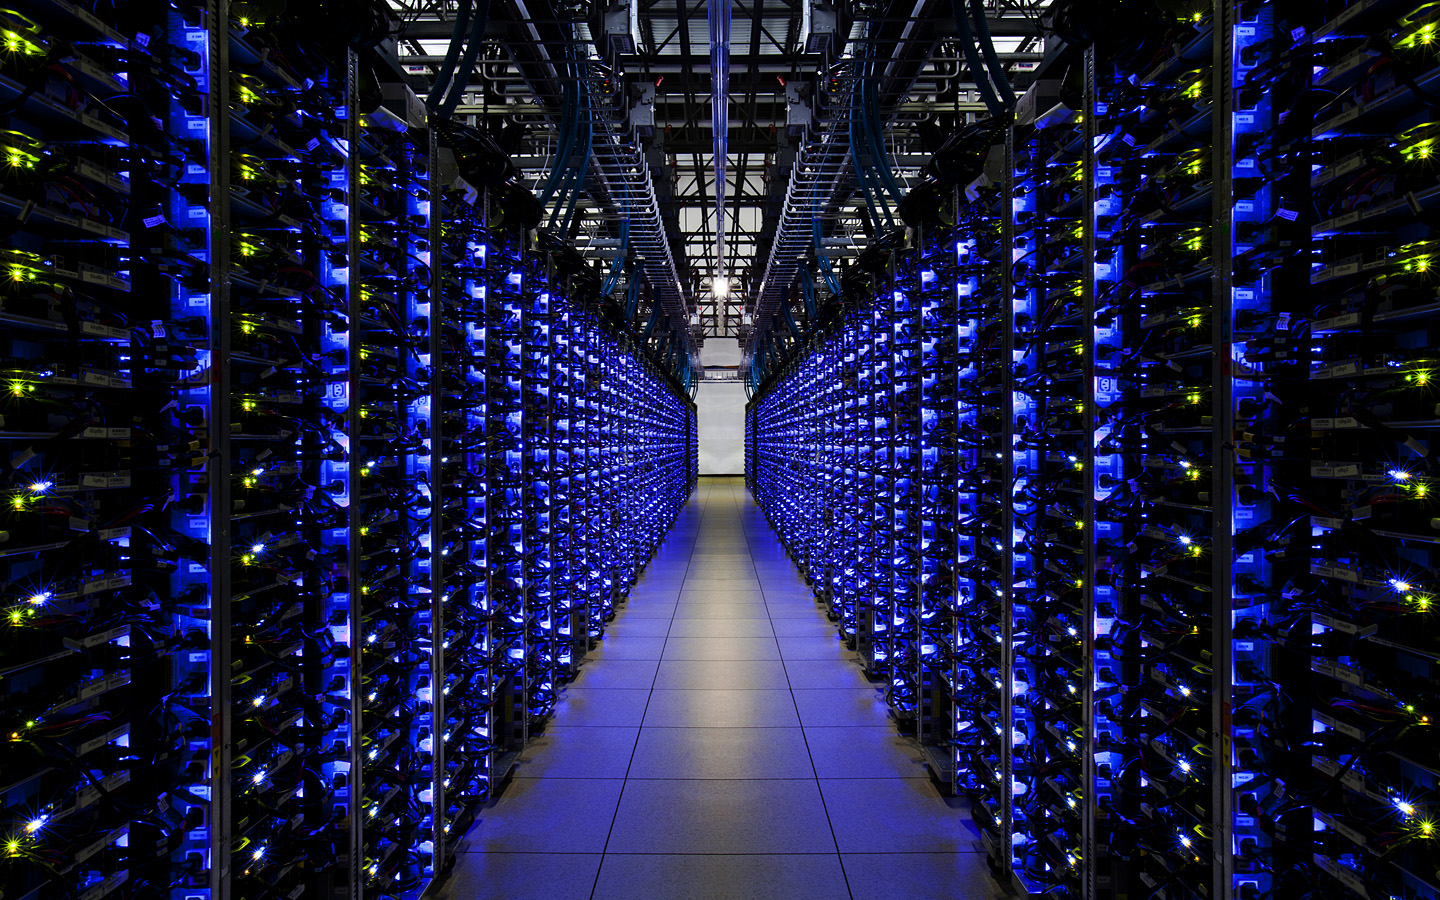
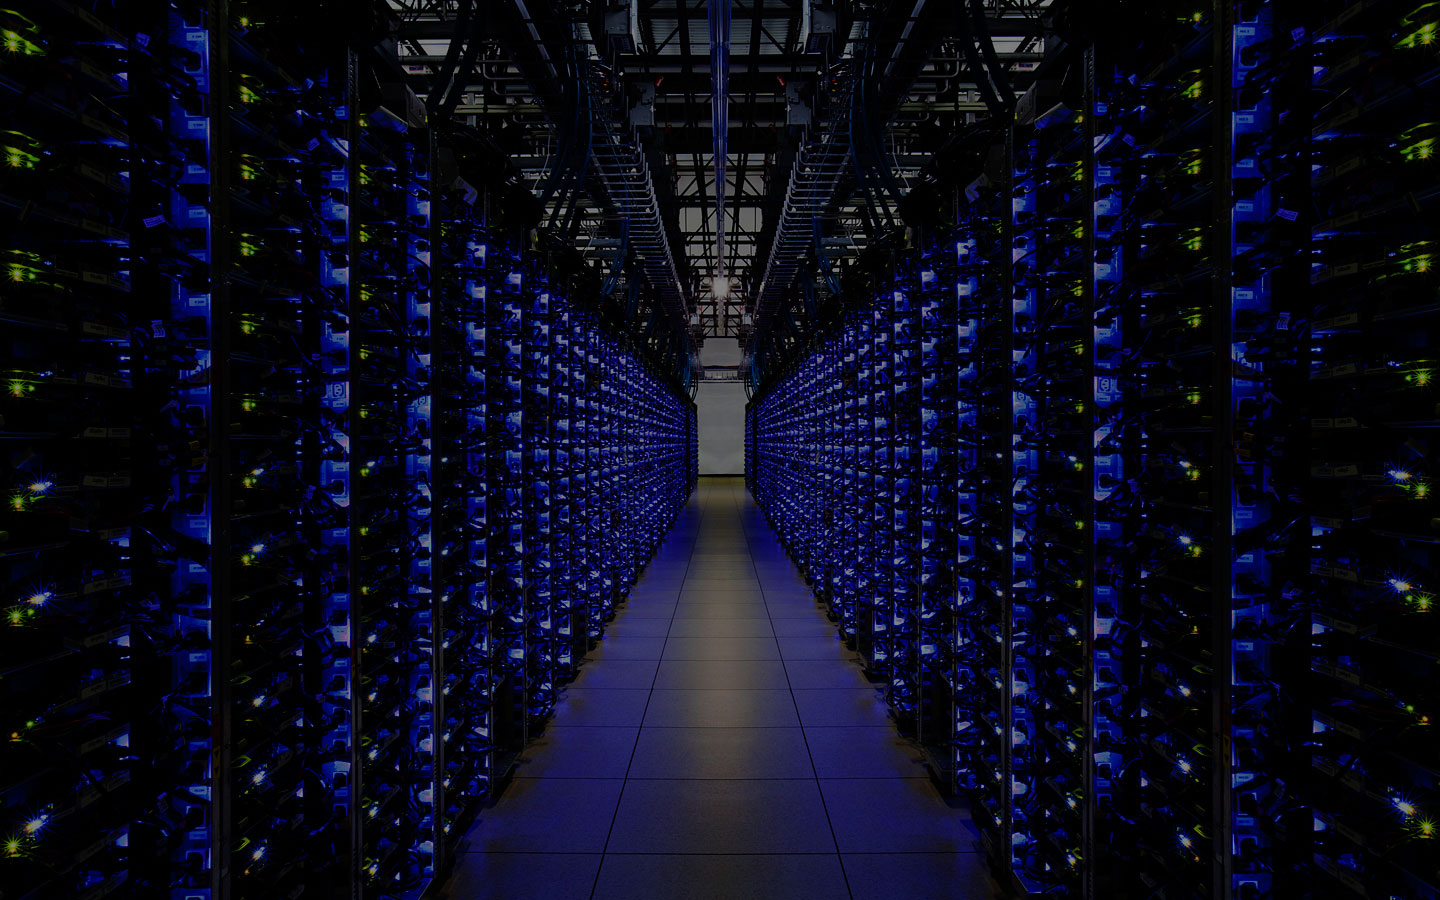
Update homepage hero image

diff --git a/static/scss/main.scss b/static/scss/main.scss
@@ -17,15 +17,6 @@
     -o-background-size: cover;
     background-size: cover;
     color: white;
-
-    &:after {
-      content: "";
-      width: 100%;
-      height: 100%;
-      display: block;
-      position: relative;
-      background: rgba(0, 0, 0, .3);
-    }
   }
 
   .row-why-use-maas .why__icon {
@@ -67,4 +58,3 @@ $folds-color: #5e66b4;
 .strip-trans {
   background: transparent;
 }
-
